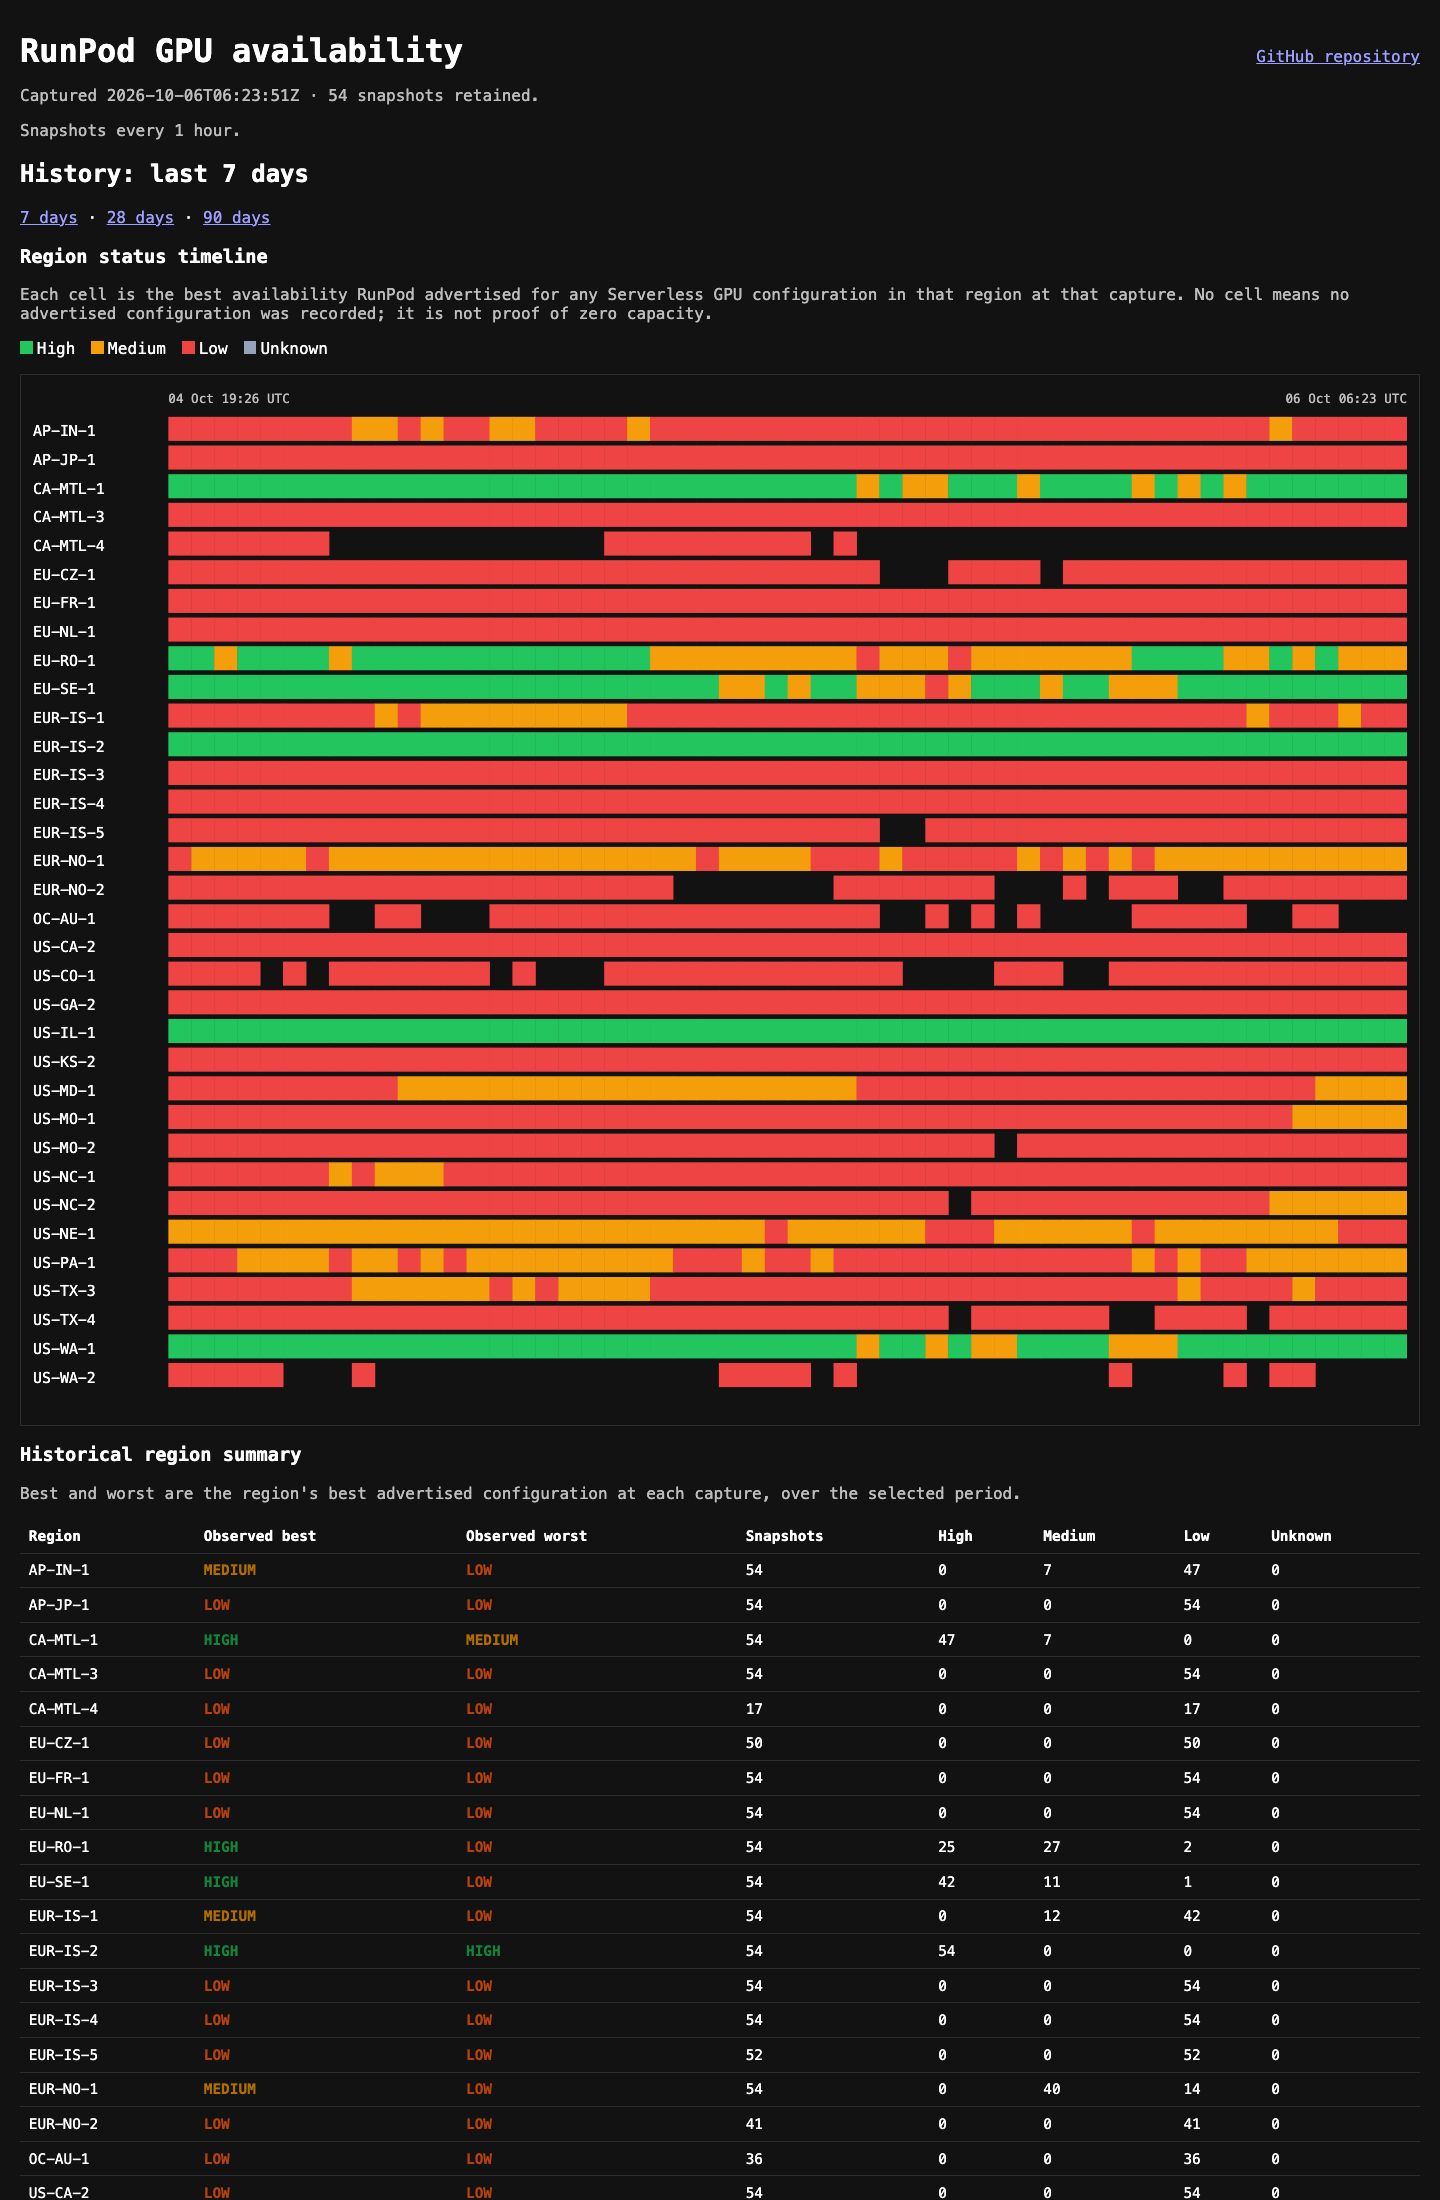
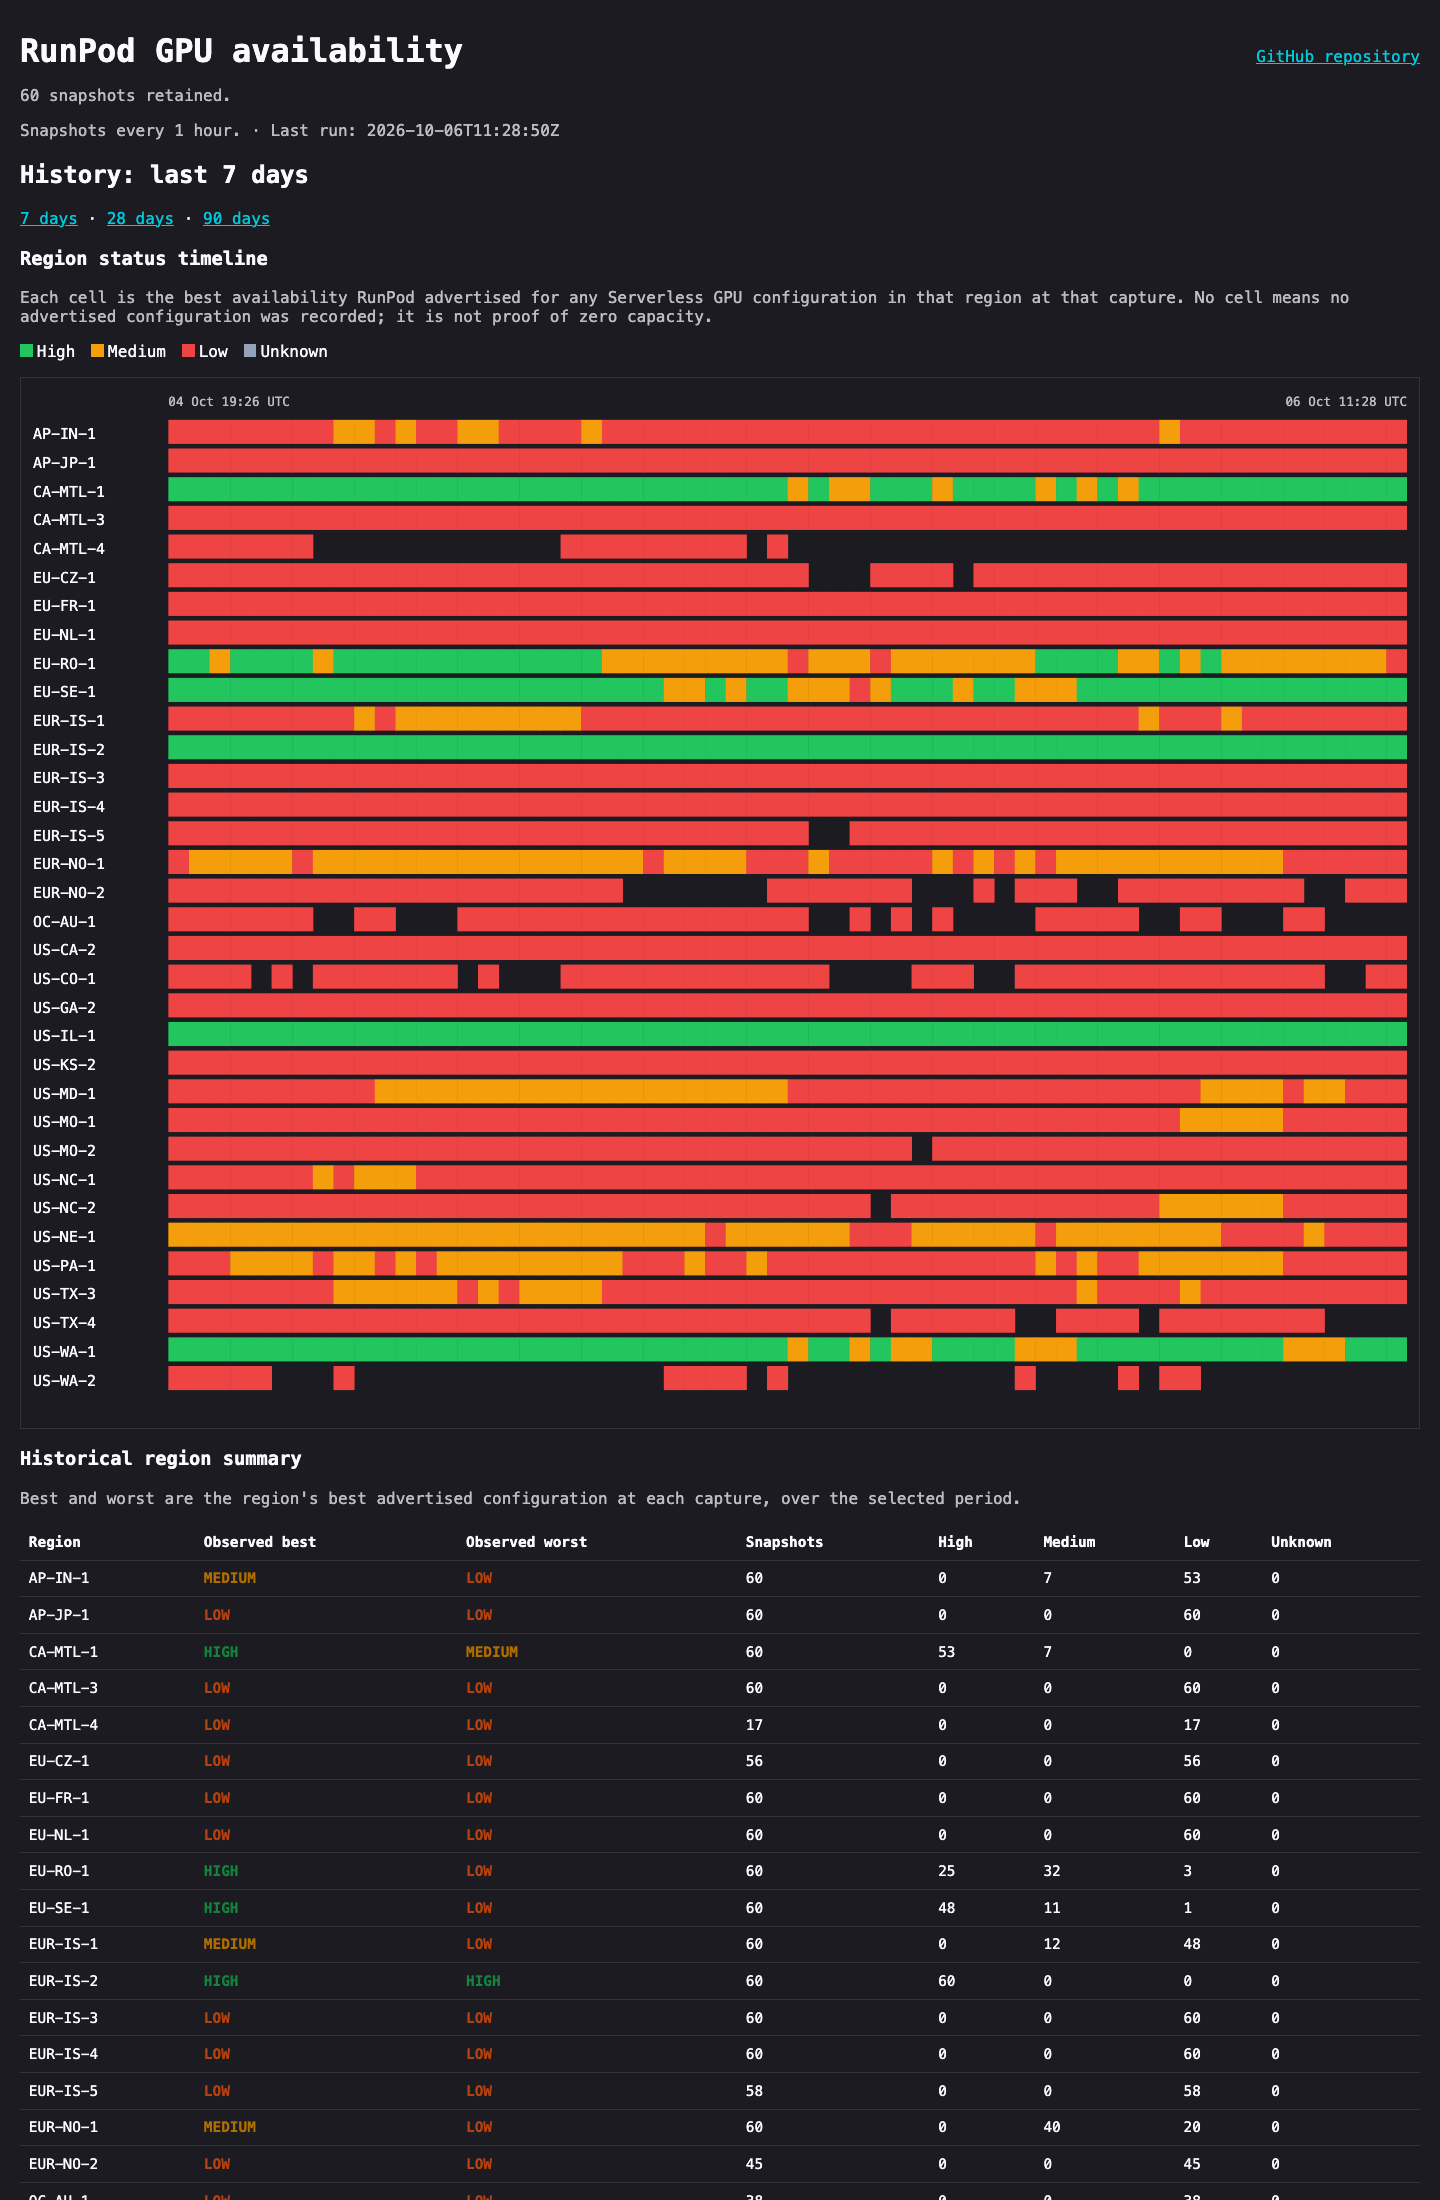
docs: refresh deployed dashboard preview
Update the README guidance and screenshot now that the dashboard surfaces the most recent successful snapshot beside its configured cadence.

diff --git a/README.md b/README.md
@@ -23,7 +23,7 @@ volume**. Rufus Scheduler captures a snapshot shortly after boot and then every
 hour. This avoids relying on GitHub Actions cron, while keeping one SQLite writer.
 Do not scale this app horizontally without moving the SQLite design first.
 
-Set `SNAPSHOT_INTERVAL_SECONDS` to change the cadence; it defaults to `3600` and the homepage displays the active interval.
+Set `SNAPSHOT_INTERVAL_SECONDS` to change the cadence; it defaults to `3600` and the homepage displays the active interval and the latest successful run.
 
 ## Local run
 
